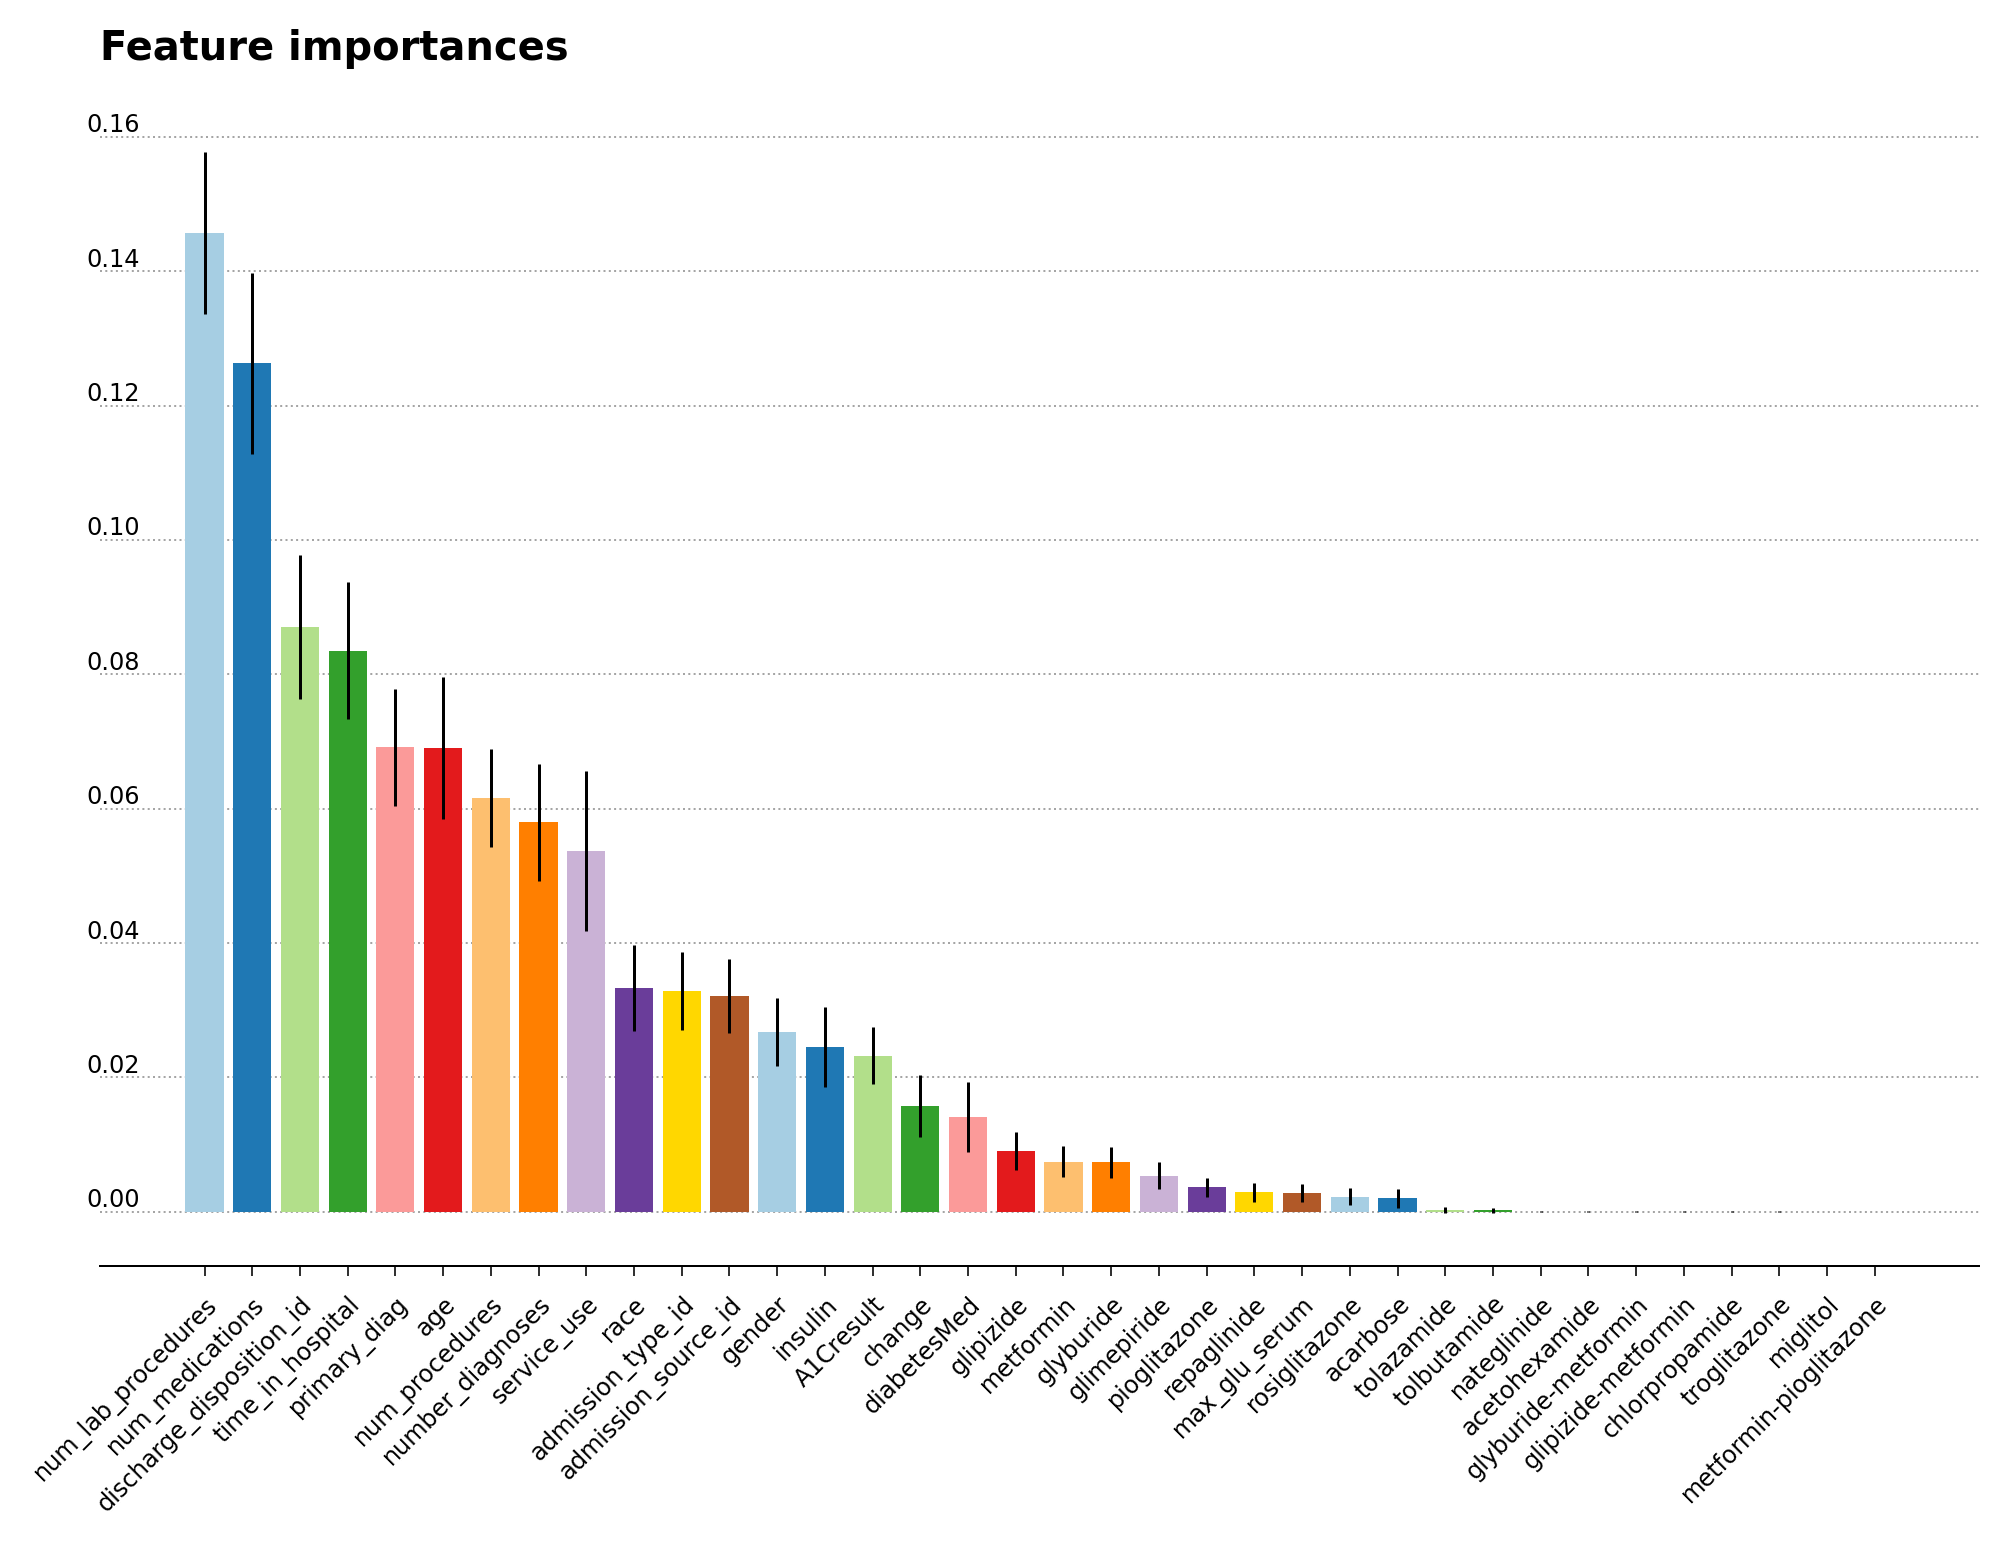
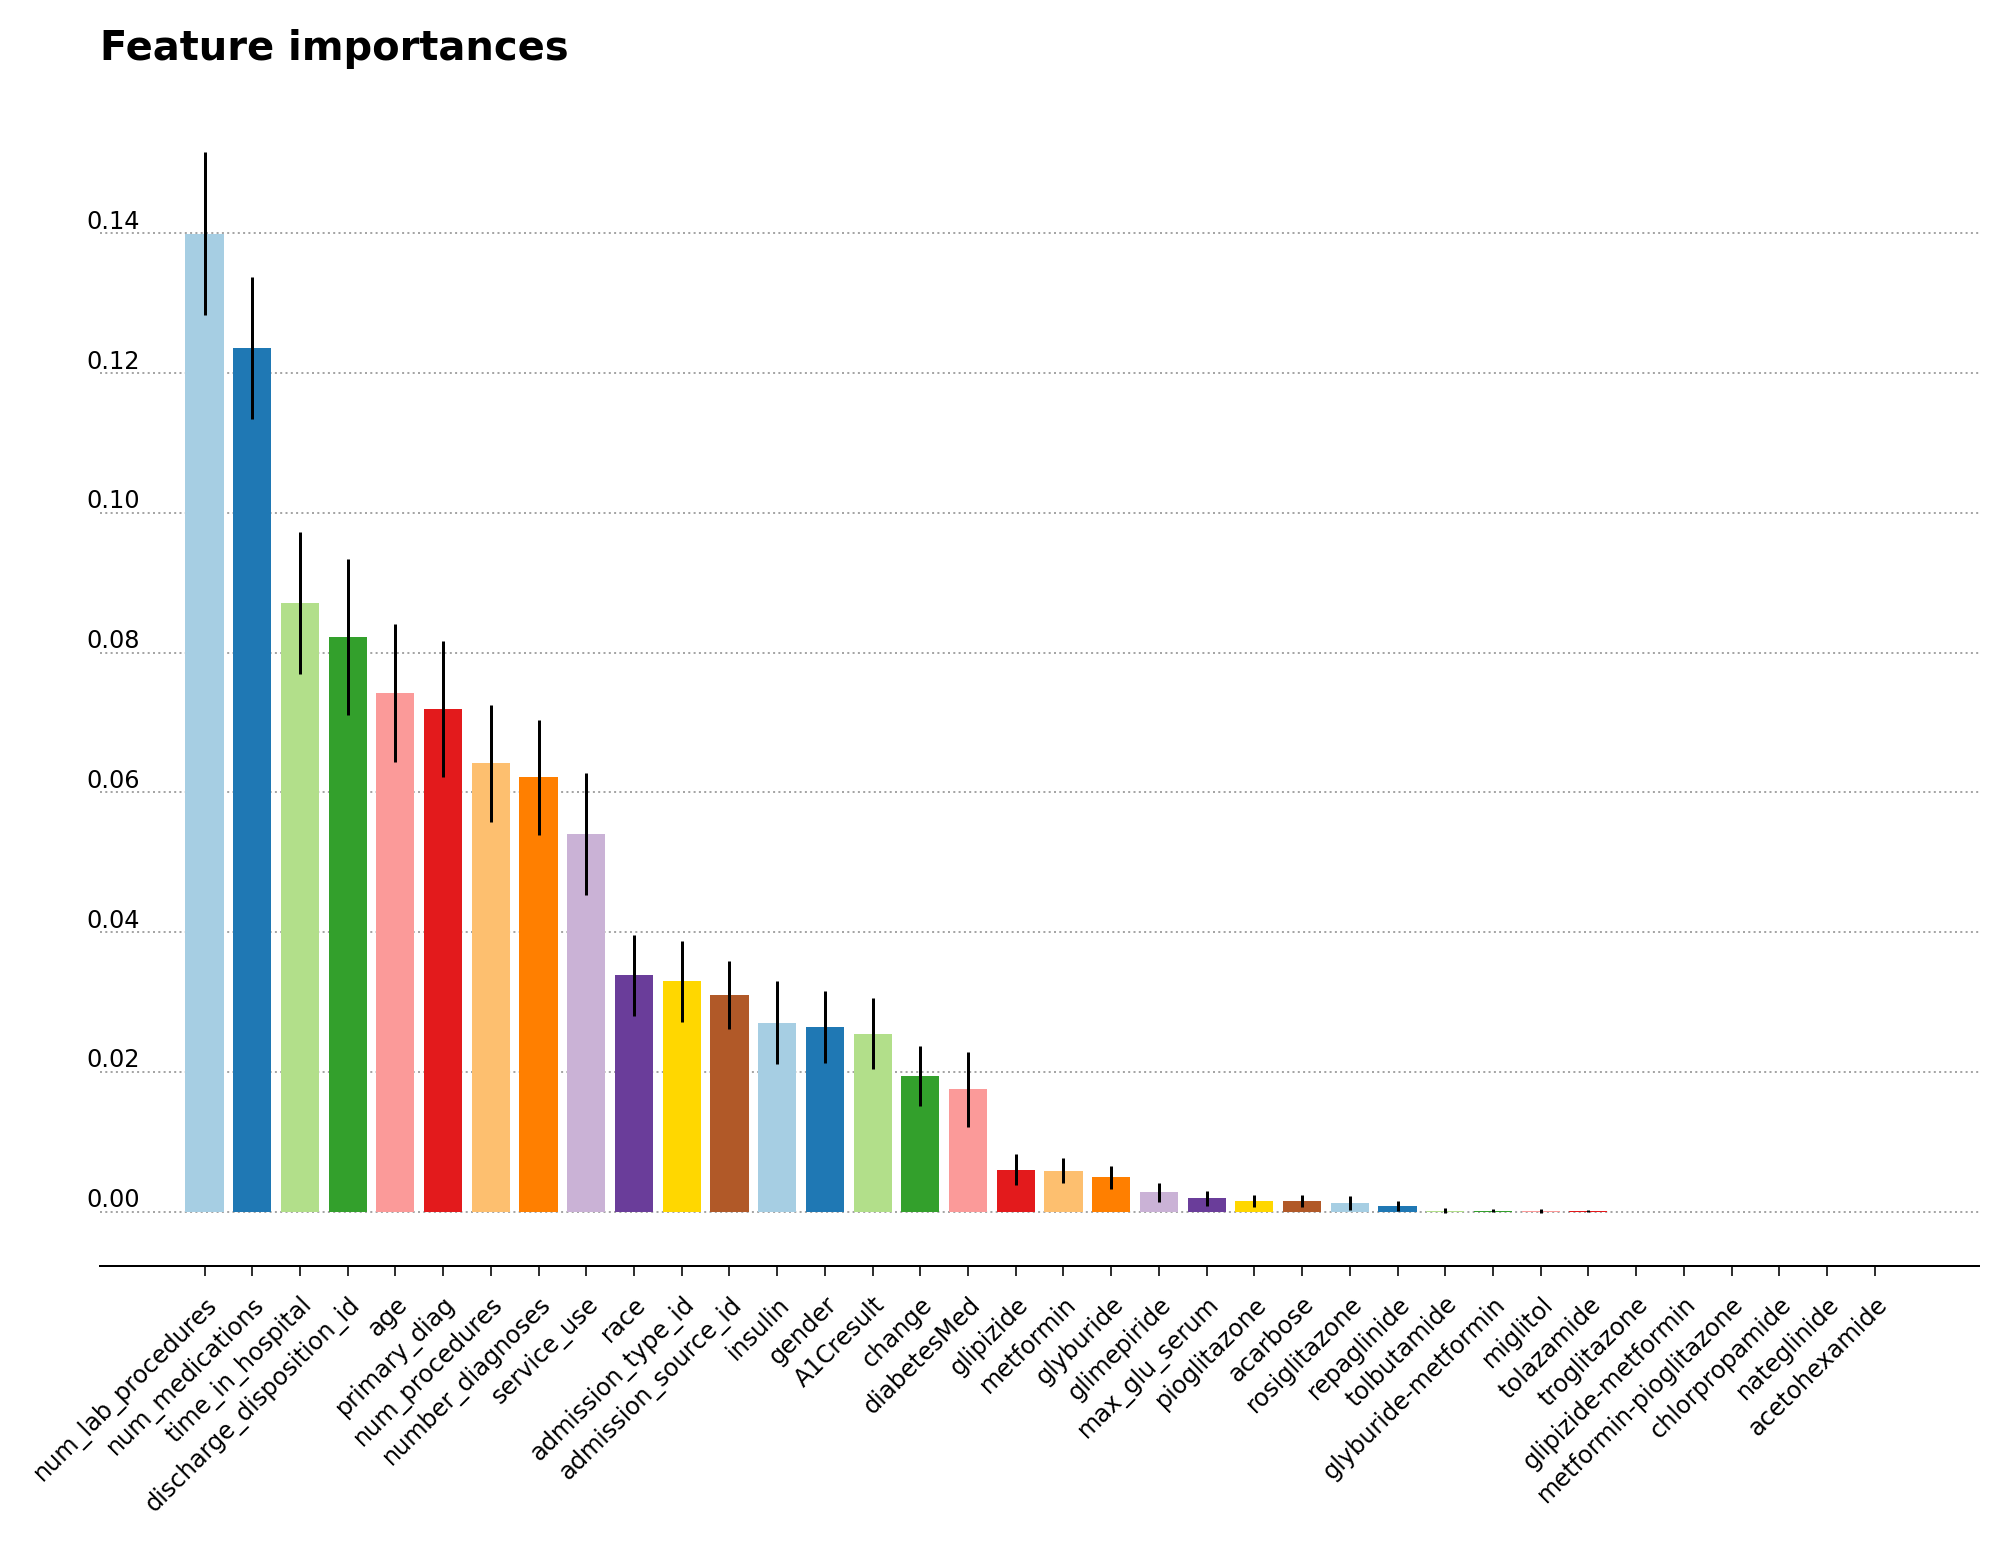
Using 'RandomUnderSampler' for balance in positive and negative labels

diff --git a/feature_importances_plot.py b/feature_importances_plot.py
@@ -3,6 +3,7 @@
 from pathlib import Path
 import pandas as pd
 import numpy as np
+from imblearn.under_sampling import RandomUnderSampler
 from sklearn.ensemble import RandomForestClassifier
 import matplotlib.pyplot as plt
 
@@ -17,10 +18,13 @@ df = pd.read_csv(work_dir / "data/df_encoded.csv")
 X = df.drop("readmitted", axis=1)
 y = df["readmitted"].copy()
 
+rus = RandomUnderSampler(sampling_strategy="majority", random_state=0)
+X_resampled, y_resampled = rus.fit_resample(X, y)
+
 rf_clf = RandomForestClassifier(
     n_jobs=-1, max_depth=16, n_estimators=160, random_state=42
 )
-rf_clf.fit(X, y)
+rf_clf.fit(X_resampled, y_resampled)
 std_err = np.std([tree.feature_importances_ for tree in rf_clf.estimators_],
                  axis=0)
 
